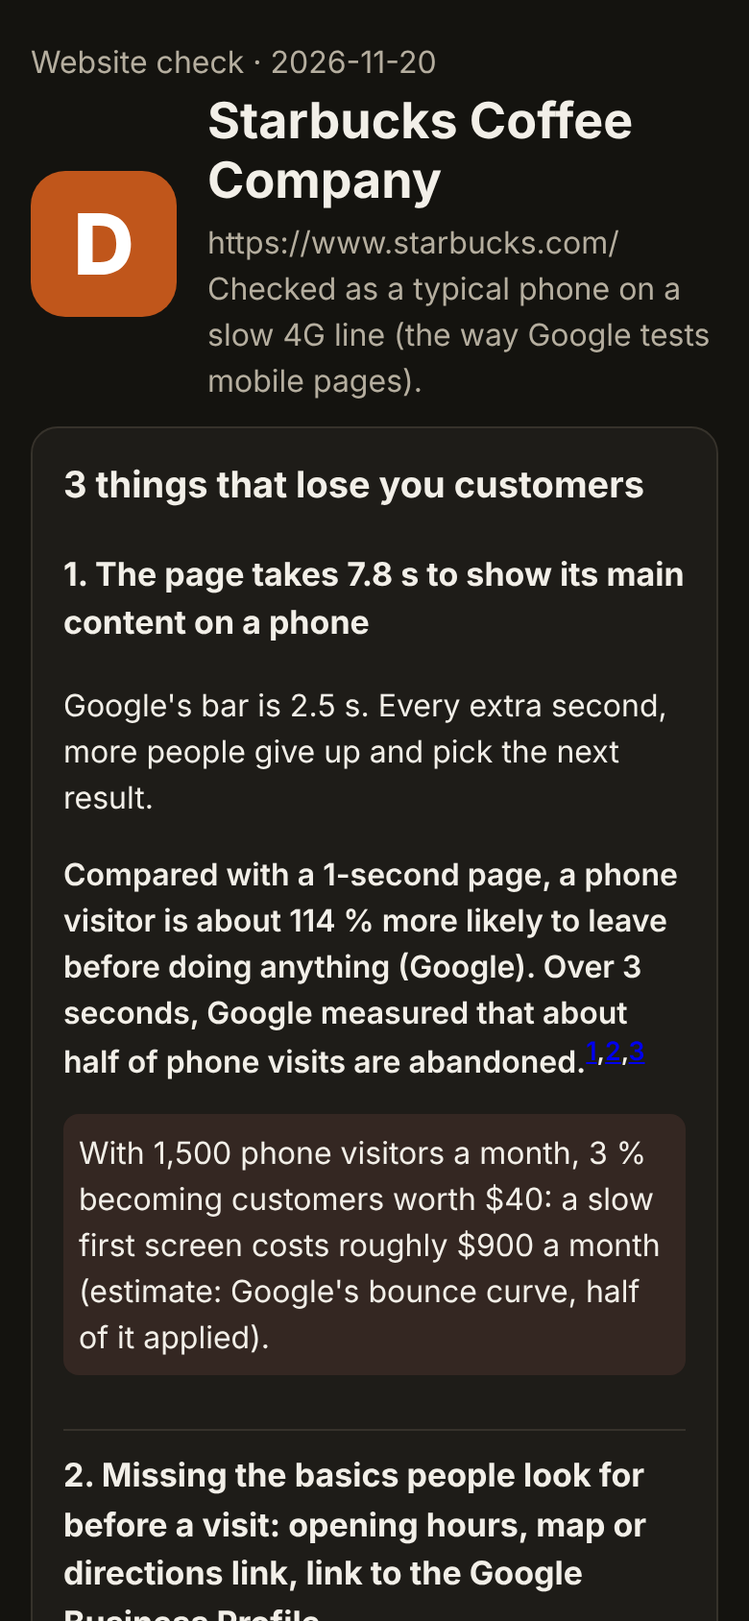
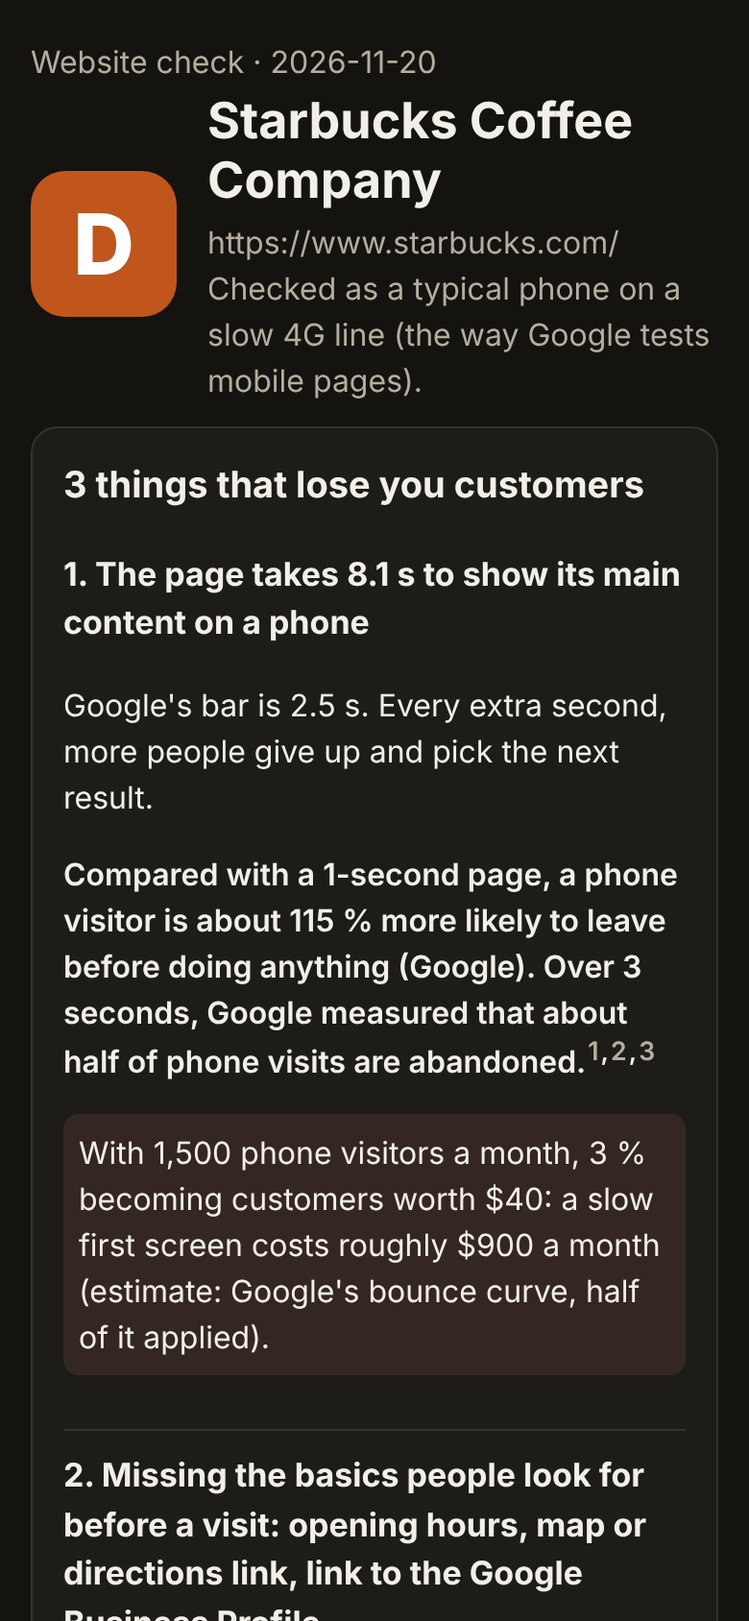
Web audit: accessibility is a headline card with the ADA lawsuit number (UsableNet / Level Access, cited) and a loss under 90/100; summary.json for the Agency HQ tile; demos regenerated; tests 19/19
Claude-Session: https://claude.ai/code/session_01EwJ4kSkyaEuu5dRCLgCt5W

diff --git a/tools/web_public/agency/audit/starbucks-com.html b/tools/web_public/agency/audit/starbucks-com.html
@@ -21,15 +21,19 @@ sup a{color:var(--mut);text-decoration:none;padding:0 1px}.src{font-size:13px;co
 <div class="top"><div class="grade" aria-label="Grade D">D</div><div><h1>Starbucks Coffee Company</h1>
 <p class="sub">https://www.starbucks.com/</p><p class="sub">Checked as a typical phone on a slow 4G line (the way Google tests mobile pages).</p></div></div>
 
-<div class="card"><h2 style="margin-top:0">3 things that lose you customers</h2><ol class="loss"><li><h3>1. The page takes 7.8 s to show its main content on a phone</h3><p>Google&#x27;s bar is 2.5 s. Every extra second, more people give up and pick the next result.</p><p class="m">Compared with a 1-second page, a phone visitor is about 114 % more likely to leave before doing anything (Google). Over 3 seconds, Google measured that about half of phone visits are abandoned.<sup><a href="#s1">1</a>,<a href="#s2">2</a>,<a href="#s3">3</a></sup></p><p class="est">With 1,500 phone visitors a month, 3 % becoming customers worth $40: a slow first screen costs roughly $900 a month (estimate: Google&#x27;s bounce curve, half of it applied).</p></li><li><h3>2. Missing the basics people look for before a visit: opening hours, map or directions link, link to the Google Business Profile</h3><p>Hours, directions and reviews are what a nearby searcher checks; when the site hides them, Google and the customer go elsewhere.</p><p class="m">28 % of nearby phone searches end in a purchase (Google): the shop that shows hours and directions gets it.<sup><a href="#s4">4</a></sup></p></li><li><h3>3. No tap-to-call button</h3><p>Most local customers decide on a phone; a number you can&#x27;t tap is a call that never happens.</p><p class="m">76 % of people who search nearby on a phone visit a business within a day (Google): every step in their way sends them to a competitor who is one tap away.<sup><a href="#s4">4</a></sup></p></li></ol></div>
+<div class="card"><h2 style="margin-top:0">3 things that lose you customers</h2><ol class="loss"><li><h3>1. The page takes 8.1 s to show its main content on a phone</h3><p>Google&#x27;s bar is 2.5 s. Every extra second, more people give up and pick the next result.</p><p class="m">Compared with a 1-second page, a phone visitor is about 115 % more likely to leave before doing anything (Google). Over 3 seconds, Google measured that about half of phone visits are abandoned.<sup><a href="#s1">1</a>,<a href="#s2">2</a>,<a href="#s3">3</a></sup></p><p class="est">With 1,500 phone visitors a month, 3 % becoming customers worth $40: a slow first screen costs roughly $900 a month (estimate: Google&#x27;s bounce curve, half of it applied).</p></li><li><h3>2. Missing the basics people look for before a visit: opening hours, map or directions link, link to the Google Business Profile</h3><p>Hours, directions and reviews are what a nearby searcher checks; when the site hides them, Google and the customer go elsewhere.</p><p class="m">28 % of nearby phone searches end in a purchase (Google): the shop that shows hours and directions gets it.<sup><a href="#s4">4</a></sup></p></li><li><h3>3. No tap-to-call button</h3><p>Most local customers decide on a phone; a number you can&#x27;t tap is a call that never happens.</p><p class="m">76 % of people who search nearby on a phone visit a business within a day (Google): every step in their way sends them to a competitor who is one tap away.<sup><a href="#s4">4</a></sup></p></li></ol></div>
 
-<h2>Speed on a phone</h2><div class="card"><table><tr><td>Main content shows after</td><td class="bad">7.8 s</td><td class="n">good is 2.5 s or less. The biggest thing on screen was: &quot;A quad of Starbucks holiday drinks against a red background&quot;</td></tr><tr><td>First thing on screen after</td><td class="ok">1.4 s</td><td class="n">good is 1.8 s or less</td></tr><tr><td>Page jumps while loading</td><td class="bad">0.24</td><td class="n">good is under 0.1</td></tr><tr><td>Frozen while loading (blocking time)</td><td class="bad">1.1 s</td><td class="n">good is under 0.6 s on this phone</td></tr><tr><td>Downloaded on first visit</td><td class="ok">1.8 MB in 68 files</td><td class="n">lean is under 2.5 MB</td></tr></table></div>
+<div class="card"><h2 style="margin-top:0">Accessibility: 100/100 <span class="ok">good</span></h2>
+<p>Can everyone use this page, including people with poor eyesight or a screen reader? Over 5,000 website accessibility (ADA)
+lawsuits were filed in 2025, about 2 in 3 against companies under $50M revenue.<sup><a href="#s5">5</a></sup>
+0 kinds of problem found by automatic WCAG 2 A/AA checks (axe-core).</p><ul class="chk"><li class='ok'>No automatic accessibility problems found.</li></ul></div>
+
+<h2>Speed on a phone</h2><div class="card"><table><tr><td>Main content shows after</td><td class="bad">8.1 s</td><td class="n">good is 2.5 s or less. The biggest thing on screen was: &quot;A quad of Starbucks holiday drinks against a red background&quot;</td></tr><tr><td>First thing on screen after</td><td class="ok">1.6 s</td><td class="n">good is 1.8 s or less</td></tr><tr><td>Page jumps while loading</td><td class="bad">0.24</td><td class="n">good is under 0.1</td></tr><tr><td>Frozen while loading (blocking time)</td><td class="ok">0.6 s</td><td class="n">good is under 0.6 s on this phone</td></tr><tr><td>Downloaded on first visit</td><td class="ok">1.8 MB in 79 files</td><td class="n">lean is under 2.5 MB</td></tr></table></div>
 <h2>On a phone</h2><div class="card"><ul class="chk"><li class="ok">✓ Pinch-zoom allowed</li><li class="ok">✓ No sideways scrolling</li><li class="ok">✓ Tap targets big enough (2 too small)</li><li class="ok">✓ Text big enough (0 bits under 12 px)</li></ul></div>
 <h2>The basics a customer looks for</h2><div class="card"><ul class="chk"><li class="ok">✓ Padlock (HTTPS)</li><li class="ok">✓ Page title</li><li class="ok">✓ Search description</li><li class="bad">✗ Tap-to-call phone number<small>On a phone people have to copy the number by hand; many just don&#x27;t call.</small></li><li class="bad">✗ Map or directions link<small>People who want to visit can&#x27;t see where you are in one tap.</small></li><li class="bad">✗ Opening hours<small>The #1 question before a visit; without it people pick a place that shows them.</small></li><li class="bad">✗ Link to the Google Business Profile<small>Reviews and &#x27;Directions&#x27; live there; the site does not send people to them.</small></li><li class="bad">✗ Business data for Google (schema.org)<small>Google can&#x27;t read the name, address, hours and phone for rich results.</small></li><li class="ok">✓ Site icon</li><li class="ok">✓ Share picture</li></ul></div>
-<h2>Easy for everyone to use: 100/100</h2><div class="card"><p class="sub">Automatic WCAG 2 A/AA checks (axe-core). 0 kinds of problem found.</p><ul class="chk"><li class='ok'>No automatic accessibility problems found.</li></ul></div>
 <h2>What a phone visitor sees first</h2><img class="shot" src="starbucks-com.png" alt="The page on a phone screen, as it looked during the check" width="390" height="844">
 
-<h2>Where the numbers come from</h2><ol class="src"><li id="s1">Google / SOASTA Research, 2017: as a mobile page&#x27;s load time goes from 1 s to 3 s the chance a visitor leaves (bounces) rises 32 %; 1 s to 5 s: 90 %; to 6 s: 106 %; to 10 s: 123 %. <a href="https://www.thinkwithgoogle.com/marketing-strategies/app-and-mobile/page-load-time-statistics/" rel="noopener noreferrer">https://www.thinkwithgoogle.com/marketing-strategies/app-and-mobile/page-load-time-statistics/</a></li><li id="s2">Google DoubleClick, 2016 (&quot;The Need for Mobile Speed&quot;): 53 % of mobile site visits are abandoned when a page takes longer than 3 seconds to load. <a href="https://www.thinkwithgoogle.com/marketing-strategies/app-and-mobile/mobile-page-speed-new-industry-benchmarks/" rel="noopener noreferrer">https://www.thinkwithgoogle.com/marketing-strategies/app-and-mobile/mobile-page-speed-new-industry-benchmarks/</a></li><li id="s3">Google web.dev, Core Web Vitals: good = largest paint within 2.5 s, layout shift under 0.1, quick response to taps; Google uses these for search ranking. <a href="https://web.dev/articles/vitals" rel="noopener noreferrer">https://web.dev/articles/vitals</a></li><li id="s4">Think with Google, 2016: 76 % of people who search on a phone for something nearby visit a related business within a day, and 28 % of those searches end in a purchase. <a href="https://www.thinkwithgoogle.com/consumer-insights/consumer-trends/mobile-search-trends-consumers-to-stores/" rel="noopener noreferrer">https://www.thinkwithgoogle.com/consumer-insights/consumer-trends/mobile-search-trends-consumers-to-stores/</a></li></ol>
+<h2>Where the numbers come from</h2><ol class="src"><li id="s1">Google / SOASTA Research, 2017: as a mobile page&#x27;s load time goes from 1 s to 3 s the chance a visitor leaves (bounces) rises 32 %; 1 s to 5 s: 90 %; to 6 s: 106 %; to 10 s: 123 %. <a href="https://www.thinkwithgoogle.com/marketing-strategies/app-and-mobile/page-load-time-statistics/" rel="noopener noreferrer">https://www.thinkwithgoogle.com/marketing-strategies/app-and-mobile/page-load-time-statistics/</a></li><li id="s2">Google DoubleClick, 2016 (&quot;The Need for Mobile Speed&quot;): 53 % of mobile site visits are abandoned when a page takes longer than 3 seconds to load. <a href="https://www.thinkwithgoogle.com/marketing-strategies/app-and-mobile/mobile-page-speed-new-industry-benchmarks/" rel="noopener noreferrer">https://www.thinkwithgoogle.com/marketing-strategies/app-and-mobile/mobile-page-speed-new-industry-benchmarks/</a></li><li id="s3">Google web.dev, Core Web Vitals: good = largest paint within 2.5 s, layout shift under 0.1, quick response to taps; Google uses these for search ranking. <a href="https://web.dev/articles/vitals" rel="noopener noreferrer">https://web.dev/articles/vitals</a></li><li id="s4">Think with Google, 2016: 76 % of people who search on a phone for something nearby visit a related business within a day, and 28 % of those searches end in a purchase. <a href="https://www.thinkwithgoogle.com/consumer-insights/consumer-trends/mobile-search-trends-consumers-to-stores/" rel="noopener noreferrer">https://www.thinkwithgoogle.com/consumer-insights/consumer-trends/mobile-search-trends-consumers-to-stores/</a></li><li id="s5">UsableNet and Level Access lawsuit tracking, 2025: about 3,100-3,900 federal website accessibility (ADA) lawsuits, over 5,000 counting state courts; about 2 in 3 were against companies under $50M revenue. <a href="https://www.usablenet.com/" rel="noopener noreferrer">https://www.usablenet.com/</a></li></ol>
 <footer>One look at one page, as a phone. No login, no form sent, nothing stored about visitors. Numbers change from visit to visit;
 the trend matters more than the decimal. This page has no tracking.</footer>
 </main></body></html>

diff --git a/tools/web_public/agency/audit/ikea-com.html b/tools/web_public/agency/audit/ikea-com.html
@@ -23,13 +23,17 @@ sup a{color:var(--mut);text-decoration:none;padding:0 1px}.src{font-size:13px;co
 
 <div class="card"><h2 style="margin-top:0">3 things that lose you customers</h2><ol class="loss"><li><h3>1. The page takes 35.0 s to show its main content on a phone</h3><p>Google&#x27;s bar is 2.5 s. Every extra second, more people give up and pick the next result.</p><p class="m">Compared with a 1-second page, a phone visitor is about 123 % more likely to leave before doing anything (Google). Over 3 seconds, Google measured that about half of phone visits are abandoned.<sup><a href="#s1">1</a>,<a href="#s2">2</a>,<a href="#s3">3</a></sup></p></li><li><h3>2. No tap-to-call button</h3><p>Most local customers decide on a phone; a number you can&#x27;t tap is a call that never happens.</p><p class="m">76 % of people who search nearby on a phone visit a business within a day (Google): every step in their way sends them to a competitor who is one tap away.<sup><a href="#s4">4</a></sup></p></li><li><h3>3. Missing the basics people look for before a visit: map or directions link, link to the Google Business Profile, business data for Google (schema.org)</h3><p>Hours, directions and reviews are what a nearby searcher checks; when the site hides them, Google and the customer go elsewhere.</p><p class="m">28 % of nearby phone searches end in a purchase (Google): the shop that shows hours and directions gets it.<sup><a href="#s4">4</a></sup></p></li></ol></div>
 
-<h2>Speed on a phone</h2><div class="card"><table><tr><td>Main content shows after</td><td class="bad">35.0 s</td><td class="n">good is 2.5 s or less. The biggest thing on screen was: &quot;A brown walnut effect EKET wall-mounted shelving unit in the&quot;</td></tr><tr><td>First thing on screen after</td><td class="bad">3.0 s</td><td class="n">good is 1.8 s or less</td></tr><tr><td>Page jumps while loading</td><td class="ok">0.00</td><td class="n">good is under 0.1</td></tr><tr><td>Frozen while loading (blocking time)</td><td class="bad">1.0 s</td><td class="n">good is under 0.6 s on this phone</td></tr><tr><td>Downloaded on first visit</td><td class="bad">3.5 MB in 431 files</td><td class="n">lean is under 2.5 MB</td></tr></table></div>
+<div class="card"><h2 style="margin-top:0">Accessibility: 100/100 <span class="ok">good</span></h2>
+<p>Can everyone use this page, including people with poor eyesight or a screen reader? Over 5,000 website accessibility (ADA)
+lawsuits were filed in 2025, about 2 in 3 against companies under $50M revenue.<sup><a href="#s5">5</a></sup>
+0 kinds of problem found by automatic WCAG 2 A/AA checks (axe-core).</p><ul class="chk"><li class='ok'>No automatic accessibility problems found.</li></ul></div>
+
+<h2>Speed on a phone</h2><div class="card"><table><tr><td>Main content shows after</td><td class="bad">35.0 s</td><td class="n">good is 2.5 s or less. The biggest thing on screen was: &quot;A brown walnut effect EKET wall-mounted shelving unit in the&quot;</td></tr><tr><td>First thing on screen after</td><td class="bad">3.0 s</td><td class="n">good is 1.8 s or less</td></tr><tr><td>Page jumps while loading</td><td class="ok">0.00</td><td class="n">good is under 0.1</td></tr><tr><td>Frozen while loading (blocking time)</td><td class="bad">0.6 s</td><td class="n">good is under 0.6 s on this phone</td></tr><tr><td>Downloaded on first visit</td><td class="bad">3.5 MB in 431 files</td><td class="n">lean is under 2.5 MB</td></tr></table></div>
 <h2>On a phone</h2><div class="card"><ul class="chk"><li class="ok">✓ Pinch-zoom allowed</li><li class="ok">✓ No sideways scrolling</li><li class="bad">✗ Tap targets big enough (107 too small)</li><li class="ok">✓ Text big enough (0 bits under 12 px)</li></ul></div>
 <h2>The basics a customer looks for</h2><div class="card"><ul class="chk"><li class="ok">✓ Padlock (HTTPS)</li><li class="ok">✓ Page title</li><li class="ok">✓ Search description</li><li class="bad">✗ Tap-to-call phone number<small>On a phone people have to copy the number by hand; many just don&#x27;t call.</small></li><li class="bad">✗ Map or directions link<small>People who want to visit can&#x27;t see where you are in one tap.</small></li><li class="ok">✓ Opening hours</li><li class="bad">✗ Link to the Google Business Profile<small>Reviews and &#x27;Directions&#x27; live there; the site does not send people to them.</small></li><li class="bad">✗ Business data for Google (schema.org)<small>Google can&#x27;t read the name, address, hours and phone for rich results.</small></li><li class="ok">✓ Site icon</li><li class="ok">✓ Share picture</li></ul></div>
-<h2>Easy for everyone to use: 100/100</h2><div class="card"><p class="sub">Automatic WCAG 2 A/AA checks (axe-core). 0 kinds of problem found.</p><ul class="chk"><li class='ok'>No automatic accessibility problems found.</li></ul></div>
 <h2>What a phone visitor sees first</h2><img class="shot" src="ikea-com.png" alt="The page on a phone screen, as it looked during the check" width="390" height="844">
 
-<h2>Where the numbers come from</h2><ol class="src"><li id="s1">Google / SOASTA Research, 2017: as a mobile page&#x27;s load time goes from 1 s to 3 s the chance a visitor leaves (bounces) rises 32 %; 1 s to 5 s: 90 %; to 6 s: 106 %; to 10 s: 123 %. <a href="https://www.thinkwithgoogle.com/marketing-strategies/app-and-mobile/page-load-time-statistics/" rel="noopener noreferrer">https://www.thinkwithgoogle.com/marketing-strategies/app-and-mobile/page-load-time-statistics/</a></li><li id="s2">Google DoubleClick, 2016 (&quot;The Need for Mobile Speed&quot;): 53 % of mobile site visits are abandoned when a page takes longer than 3 seconds to load. <a href="https://www.thinkwithgoogle.com/marketing-strategies/app-and-mobile/mobile-page-speed-new-industry-benchmarks/" rel="noopener noreferrer">https://www.thinkwithgoogle.com/marketing-strategies/app-and-mobile/mobile-page-speed-new-industry-benchmarks/</a></li><li id="s3">Google web.dev, Core Web Vitals: good = largest paint within 2.5 s, layout shift under 0.1, quick response to taps; Google uses these for search ranking. <a href="https://web.dev/articles/vitals" rel="noopener noreferrer">https://web.dev/articles/vitals</a></li><li id="s4">Think with Google, 2016: 76 % of people who search on a phone for something nearby visit a related business within a day, and 28 % of those searches end in a purchase. <a href="https://www.thinkwithgoogle.com/consumer-insights/consumer-trends/mobile-search-trends-consumers-to-stores/" rel="noopener noreferrer">https://www.thinkwithgoogle.com/consumer-insights/consumer-trends/mobile-search-trends-consumers-to-stores/</a></li></ol>
+<h2>Where the numbers come from</h2><ol class="src"><li id="s1">Google / SOASTA Research, 2017: as a mobile page&#x27;s load time goes from 1 s to 3 s the chance a visitor leaves (bounces) rises 32 %; 1 s to 5 s: 90 %; to 6 s: 106 %; to 10 s: 123 %. <a href="https://www.thinkwithgoogle.com/marketing-strategies/app-and-mobile/page-load-time-statistics/" rel="noopener noreferrer">https://www.thinkwithgoogle.com/marketing-strategies/app-and-mobile/page-load-time-statistics/</a></li><li id="s2">Google DoubleClick, 2016 (&quot;The Need for Mobile Speed&quot;): 53 % of mobile site visits are abandoned when a page takes longer than 3 seconds to load. <a href="https://www.thinkwithgoogle.com/marketing-strategies/app-and-mobile/mobile-page-speed-new-industry-benchmarks/" rel="noopener noreferrer">https://www.thinkwithgoogle.com/marketing-strategies/app-and-mobile/mobile-page-speed-new-industry-benchmarks/</a></li><li id="s3">Google web.dev, Core Web Vitals: good = largest paint within 2.5 s, layout shift under 0.1, quick response to taps; Google uses these for search ranking. <a href="https://web.dev/articles/vitals" rel="noopener noreferrer">https://web.dev/articles/vitals</a></li><li id="s4">Think with Google, 2016: 76 % of people who search on a phone for something nearby visit a related business within a day, and 28 % of those searches end in a purchase. <a href="https://www.thinkwithgoogle.com/consumer-insights/consumer-trends/mobile-search-trends-consumers-to-stores/" rel="noopener noreferrer">https://www.thinkwithgoogle.com/consumer-insights/consumer-trends/mobile-search-trends-consumers-to-stores/</a></li><li id="s5">UsableNet and Level Access lawsuit tracking, 2025: about 3,100-3,900 federal website accessibility (ADA) lawsuits, over 5,000 counting state courts; about 2 in 3 were against companies under $50M revenue. <a href="https://www.usablenet.com/" rel="noopener noreferrer">https://www.usablenet.com/</a></li></ol>
 <footer>One look at one page, as a phone. No login, no form sent, nothing stored about visitors. Numbers change from visit to visit;
 the trend matters more than the decimal. This page has no tracking.</footer>
 </main></body></html>

diff --git a/tools/web_public/agency/audit/index.html b/tools/web_public/agency/audit/index.html
@@ -12,7 +12,7 @@ li a{text-decoration:none;display:flex;justify-content:space-between;align-items
 <body><main><a class="back" href="../">‹ Agency</a>
 <h1>Website checks</h1><p>A one-page report you can send a business owner: how their home page does on a phone, the 3 things that lose them
 customers (with the source of every number), and what is missing. The two samples are big brands, so no small business is named here.</p>
-<ul><li><a href="starbucks-com.html"><b>Starbucks Coffee Company</b> <span class="g gD">D</span></a><small>2026-11-20 · main content 7.8 s · jumps 0.24 · access 100/100</small></li><li><a href="ikea-com.html"><b>IKEA</b> <span class="g gD">D</span></a><small>2026-11-20 · main content 35.0 s · jumps 0.00 · access 100/100</small></li></ul>
+<ul><li><a href="starbucks-com.html"><b>Starbucks Coffee Company</b> <span class="g gD">D</span></a><small>2026-11-20 · main content 8.1 s · jumps 0.24 · access 100/100</small></li><li><a href="ikea-com.html"><b>IKEA</b> <span class="g gD">D</span></a><small>2026-11-20 · main content 35.0 s · jumps 0.00 · access 100/100</small></li></ul>
 <h2>Run one (on the PC or here)</h2>
 <p><code>python -X utf8 tools/site_audit.py https://their-site.com</code></p>
 <p>Add <code>--visitors 1500 --value 120</code> for a $ estimate (their phone visitors a month, what a new customer is worth).

diff --git a/tools/site_audit.py b/tools/site_audit.py
@@ -60,6 +60,8 @@ SOURCES = {
                "https://www.thinkwithgoogle.com/consumer-insights/consumer-trends/mobile-search-trends-consumers-to-stores/"),
     "vitals": ("Google web.dev, Core Web Vitals: good = largest paint within 2.5 s, layout shift under 0.1, quick response to taps; "
                "Google uses these for search ranking.", "https://web.dev/articles/vitals"),
+    "ada": ("UsableNet and Level Access lawsuit tracking, 2025: about 3,100-3,900 federal website accessibility (ADA) lawsuits, over "
+            "5,000 counting state courts; about 2 in 3 were against companies under $50M revenue.", "https://www.usablenet.com/"),
     "webaim": ("WebAIM Million, 2024: 95.9 % of the top one million home pages had detectable accessibility (WCAG) failures.",
                "https://webaim.org/projects/million/"),
 }
@@ -235,10 +237,12 @@ def losses(m: dict, visitors: int | None = None, value: float | None = None) -> 
         out.append({"w": 55 + int(min(40, cls * 100)), "title": f"The page jumps while it loads (layout shift {cls:.2f})",
                     "why": "Buttons move as pictures and banners arrive, so people tap the wrong thing; Google's bar is under 0.1.",
                     "money": "Google uses this in its ranking (Core Web Vitals): a jumpy page sits lower in search.", "src": ["vitals"]})
-    if (m.get("a11y") or 100) < 80:
-        out.append({"w": 50 + (80 - m["a11y"]), "title": f"Hard to use for many people (accessibility {m['a11y']}/100)",
-                    "why": "Low contrast, unlabeled buttons or tiny tap targets: older customers and anyone on a sunny street struggle.",
-                    "money": "About 96 % of top home pages fail basic accessibility checks (WebAIM): fixing it is a real edge.", "src": ["webaim"]})
+    if (m.get("a11y") if m.get("a11y") is not None else 100) < 90:
+        out.append({"w": 70 + (90 - m["a11y"]), "title": f"Hard to use for some customers, and a legal risk (accessibility {m['a11y']}/100)",
+                    "why": "Low contrast, unlabeled buttons or tiny tap targets: older customers and screen-reader users struggle, and "
+                           "these are the problems website accessibility lawsuits cite.",
+                    "money": "Over 5,000 website accessibility (ADA) lawsuits were filed in 2025, about 2 in 3 against companies under "
+                             "$50M revenue; about 96 % of top home pages fail basic checks.", "src": ["ada", "webaim"]})
     if m.get("zoom_blocked") or m.get("sideways") or (m.get("small_taps") or 0) >= 10:
         bits = [x for x, on in (("pinch-zoom is blocked", m.get("zoom_blocked")), ("the page scrolls sideways", m.get("sideways")),
                                 (f"{m.get('small_taps')} buttons / links are smaller than a fingertip", (m.get("small_taps") or 0) >= 10)) if on]
@@ -271,7 +275,7 @@ def page_html(m: dict, name: str, png: str, when: str) -> str:
         refs = "<sup>" + ",".join(f'<a href="#s{used.index(s) + 1}">{used.index(s) + 1}</a>' for s in x["src"]) + "</sup>"
         rows.append(f'<li><h3>{i}. {e(x["title"])}</h3><p>{e(x["why"])}</p><p class="m">{e(x["money"])}{refs}</p>'
                     + (f'<p class="est">{e(x["estimate"])}</p>' if x.get("estimate") else "") + "</li>")
-    for s in ("vitals",):
+    for s in ("ada", "vitals"):
         if s not in used:
             used.append(s)
 
@@ -320,10 +324,14 @@ sup a{{color:var(--mut);text-decoration:none;padding:0 1px}}.src{{font-size:13px
 
 <div class="card"><h2 style="margin-top:0">3 things that lose you customers</h2><ol class="loss">{"".join(rows) or "<li><h3>Nothing big: this page does the basics well.</h3></li>"}</ol></div>
 
+<div class="card"><h2 style="margin-top:0">Accessibility: {m.get("a11y", 0)}/100 <span class="{"ok" if (m.get("a11y") or 0) >= 90 else "bad"}">{"good" if (m.get("a11y") or 0) >= 90 else "needs work"}</span></h2>
+<p>Can everyone use this page, including people with poor eyesight or a screen reader? Over 5,000 website accessibility (ADA)
+lawsuits were filed in 2025, about 2 in 3 against companies under $50M revenue.<sup><a href="#s{used.index("ada") + 1}">{used.index("ada") + 1}</a></sup>
+{m.get("a11y_n", 0)} kinds of problem found by automatic WCAG 2 A/AA checks (axe-core).</p><ul class="chk">{ax or "<li class='ok'>No automatic accessibility problems found.</li>"}</ul></div>
+
 <h2>Speed on a phone</h2><div class="card"><table>{sp}</table></div>
 <h2>On a phone</h2><div class="card"><ul class="chk">{ph}</ul></div>
 <h2>The basics a customer looks for</h2><div class="card"><ul class="chk">{bl}</ul></div>
-<h2>Easy for everyone to use: {m.get("a11y", 0)}/100</h2><div class="card"><p class="sub">Automatic WCAG 2 A/AA checks (axe-core). {m.get("a11y_n", 0)} kinds of problem found.</p><ul class="chk">{ax or "<li class='ok'>No automatic accessibility problems found.</li>"}</ul></div>
 <h2>What a phone visitor sees first</h2><img class="shot" src="{e(png)}" alt="The page on a phone screen, as it looked during the check" width="390" height="844">
 
 <h2>Where the numbers come from</h2><ol class="src">{src}</ol>
@@ -459,6 +467,9 @@ def write_index(out: str):
         rows = []
     with open(os.path.join(out, "index.html"), "w", encoding="utf-8") as fh:
         fh.write(index_html(rows))
+    with open(os.path.join(out, "summary.json"), "w", encoding="utf-8") as fh:      # the Agency HQ tile (HUB team's shape)
+        json.dump({"n": len(rows), "label": f"{len(rows)} website check{'s' if len(rows) != 1 else ''}",
+                   "next": "Check a prospect's site: python tools/site_audit.py <their URL>", "t": int(time.time())}, fh)
 
 
 def audit(url: str, out: str = OUT, slug: str | None = None, name: str | None = None, robots: bool = True, visitors=None, value=None,

diff --git a/tests/test_web_audit.py b/tests/test_web_audit.py
@@ -61,6 +61,9 @@ def main() -> int:
     L = A.losses(slow)
     check("a. 3 losses, ranked: slow first (with Google's number), then no padlock / tap-to-call; each cites a source",
           len(L) == 3 and "7.5 s" in L[0]["title"] and "112 %" in L[0]["money"] and all(x["src"] and all(s in A.SOURCES for s in x["src"]) for x in L), L)
+    acc = A.losses({"lcp_s": 1.2, "cls": 0, "a11y": 70, "basics": g})
+    check("a. accessibility under 90 is a loss with the ADA lawsuit number (cited)", len(acc) == 1 and "5,000" in acc[0]["money"]
+          and "ada" in acc[0]["src"], acc)
     check("a. a fast complete page has nothing big to lose", A.losses(fast) == [], A.losses(fast))
     check("a. the $ estimate only with visitors + value", "estimate" not in L[0] and "$" in A.losses(slow, 1500, 120)[0].get("estimate", ""))
     m = dict(slow, final_url="http://bad.example/", fcp_s=3.1, tbt_ms=1200, mb=4.2, requests=80, sideways=True, small_text=3, zoom_blocked=True,
@@ -77,6 +80,8 @@ def main() -> int:
     check("a. a bot wall is not audited: 403 / 'Access Denied' / 'Just a moment' are caught, a normal page is not",
           A.blocked({"status": 403}) and A.blocked({"status": 200, "title": "Access Denied"}) and A.blocked({"status": 200, "text": "Just a moment..."})
           and not A.blocked({"status": 200, "title": "Joe's Plumbing", "text": "We fix pipes"}))
+    check("b. accessibility is a headline card with the ADA number and its source", "Accessibility: 55/100" in page and "5,000" in page
+          and A.SOURCES["ada"][1] in page)
     check("b. index: lists the audit and how to run one", 'href="a-com.html"' in idx and "tools/site_audit.py" in idx and "<script" not in idx)
 
     site = tempfile.mkdtemp(prefix="le_webaudit_site_")
@@ -103,7 +108,8 @@ def main() -> int:
         check("c. its 3 losses: no padlock (plain http), the missing basics, no tap-to-call (the jump is measured above, ranked 4th)",
               "padlock" in titles.lower() and "tap-to-call" in titles and "basics" in titles, titles)
         check("c. files: <slug>.html + .png + audits.json + index.html", all(os.path.isfile(os.path.join(out, f)) for f in
-              ("slow-shop.html", "slow-shop.png", "audits.json", "index.html")) and json.load(open(os.path.join(out, "audits.json")))[0]["slug"] == "slow-shop")
+              ("slow-shop.html", "slow-shop.png", "audits.json", "index.html", "summary.json"))
+              and json.load(open(os.path.join(out, "summary.json")))["n"] == 1 and json.load(open(os.path.join(out, "audits.json")))[0]["slug"] == "slow-shop")
     finally:
         shutil.rmtree(site, ignore_errors=True)
         shutil.rmtree(out, ignore_errors=True)

diff --git a/research/handoff/2026-11-20/web/audit/REPORT.md b/research/handoff/2026-11-20/web/audit/REPORT.md
@@ -12,14 +12,14 @@ and every measurement. Send the link or the file.
 | Phone check | pre-installed Chromium, 390 x 844, touch, CPU x4, Lighthouse's mobile line (562 ms round trip, 1.44 Mbit/s): one page, 8 s settle |
 | Measured | main content (LCP, names the biggest thing on screen), first paint, layout jumps (CLS + what moved), blocking time, MB + files, pinch-zoom, sideways scroll, tap targets < 44 px, text < 12 px |
 | Basics | HTTPS, title, search description, tap-to-call, map / directions, opening hours, Google Business Profile link, schema.org business data, site icon, share picture |
-| Accessibility | axe-core (already vendored for the A11Y team, tools/a11y/axe.min.js), WCAG 2 A/AA, a 0-100 score + top problems |
+| Accessibility (headline card) | axe-core (already vendored for the A11Y team, tools/a11y/axe.min.js), WCAG 2 A/AA, a 0-100 score + top problems, with the research team's opener: over 5,000 website accessibility (ADA) lawsuits in 2025, about 2 in 3 against companies under $50M (UsableNet / Level Access, cited); under 90/100 it is one of the 3 losses |
 | 3 losses | ranked; each cites Google / SOASTA 2017 (bounce +32 % at 3 s ... +123 % at 10 s), Google 2016 (53 % abandon > 3 s), Deloitte 2020 (0.1 s = +8.4 % retail conversions), Think with Google 2016 (76 % visit within a day, 28 % buy), web.dev Core Web Vitals, WebAIM Million 2024 (95.9 %) |
 | Report | self-contained: no script, no tracking, no font / image from another site (test-checked), noindex, dark mode, the screenshot next to it |
 | Polite | robots.txt read and obeyed (agency/audit.robots_ok), one page once, no crawling, never contacts anyone; a bot wall (403 / "Access Denied" / "Just a moment") = **no report written** (McDonald's answered 403: correctly refused) |
-| Index | tools/web_public/agency/audit/index.html: every audit (grade, speed, jumps, access) + how to run one from the PC |
+| Index | tools/web_public/agency/audit/index.html: every audit (grade, speed, jumps, access) + how to run one from the PC; summary.json {n, label, next, t} for the Agency HQ tile (HUB team's shape) |
 | Demo (big brands only) | Starbucks: D (main content 7.8 s, jumps 0.24, access 100/100); IKEA US: D (35 s: the biggest thing on screen, the shelf photo, arrives late on a slow line; access 100/100) |
-| Tests | tests.test_web_audit 17/17 (area agency): curve, basics, score, grade, losses + sources, $ only with inputs, bot wall, report has no tracking / external file, a real local phone run, demos = big brands only |
+| Tests | tests.test_web_audit 19/19 (area agency): curve, basics, score, grade, losses + sources, $ only with inputs, bot wall, report has no tracking / external file, a real local phone run, demos = big brands only |
 
-Screenshots: index.png, ikea-com.png, starbucks-com-dark.png (this folder).
+Screenshots: index.png, ikea-com.png, ikea-com-accessibility.png, starbucks-com-dark.png (this folder).
 Honest limits: a bot-protected site cannot be checked from a datacenter (the tool says so; run it from the PC's home line); numbers move
 a little run to run; the $ estimate is labeled an estimate and only appears when the owner gives visitors + customer value.
